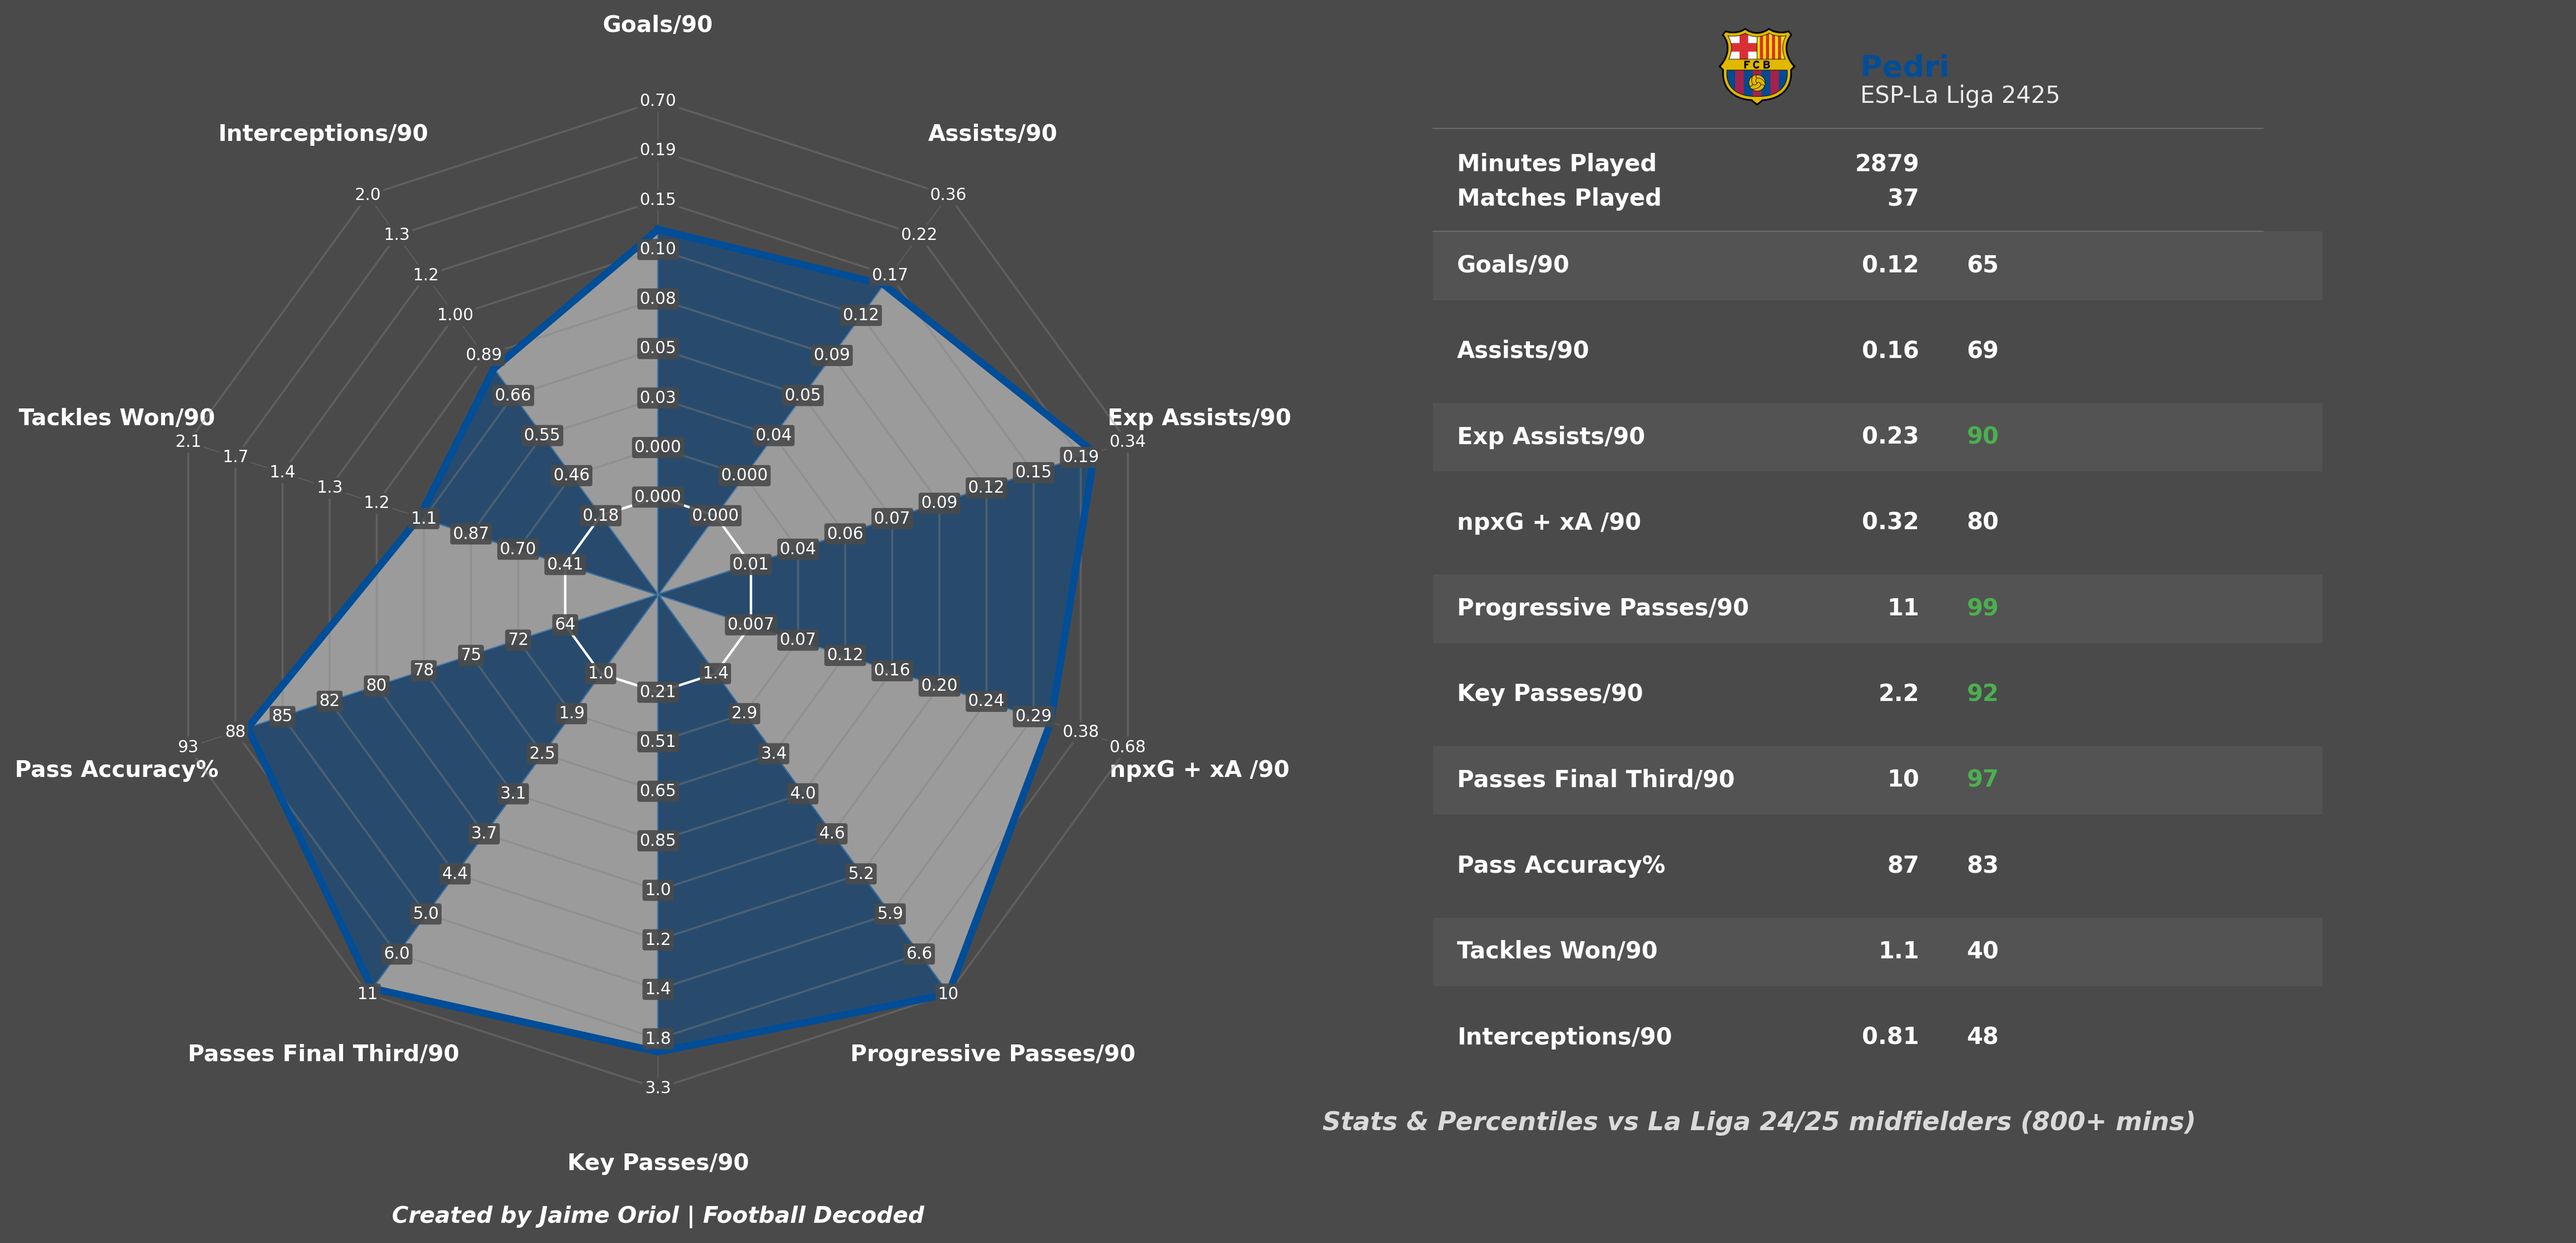
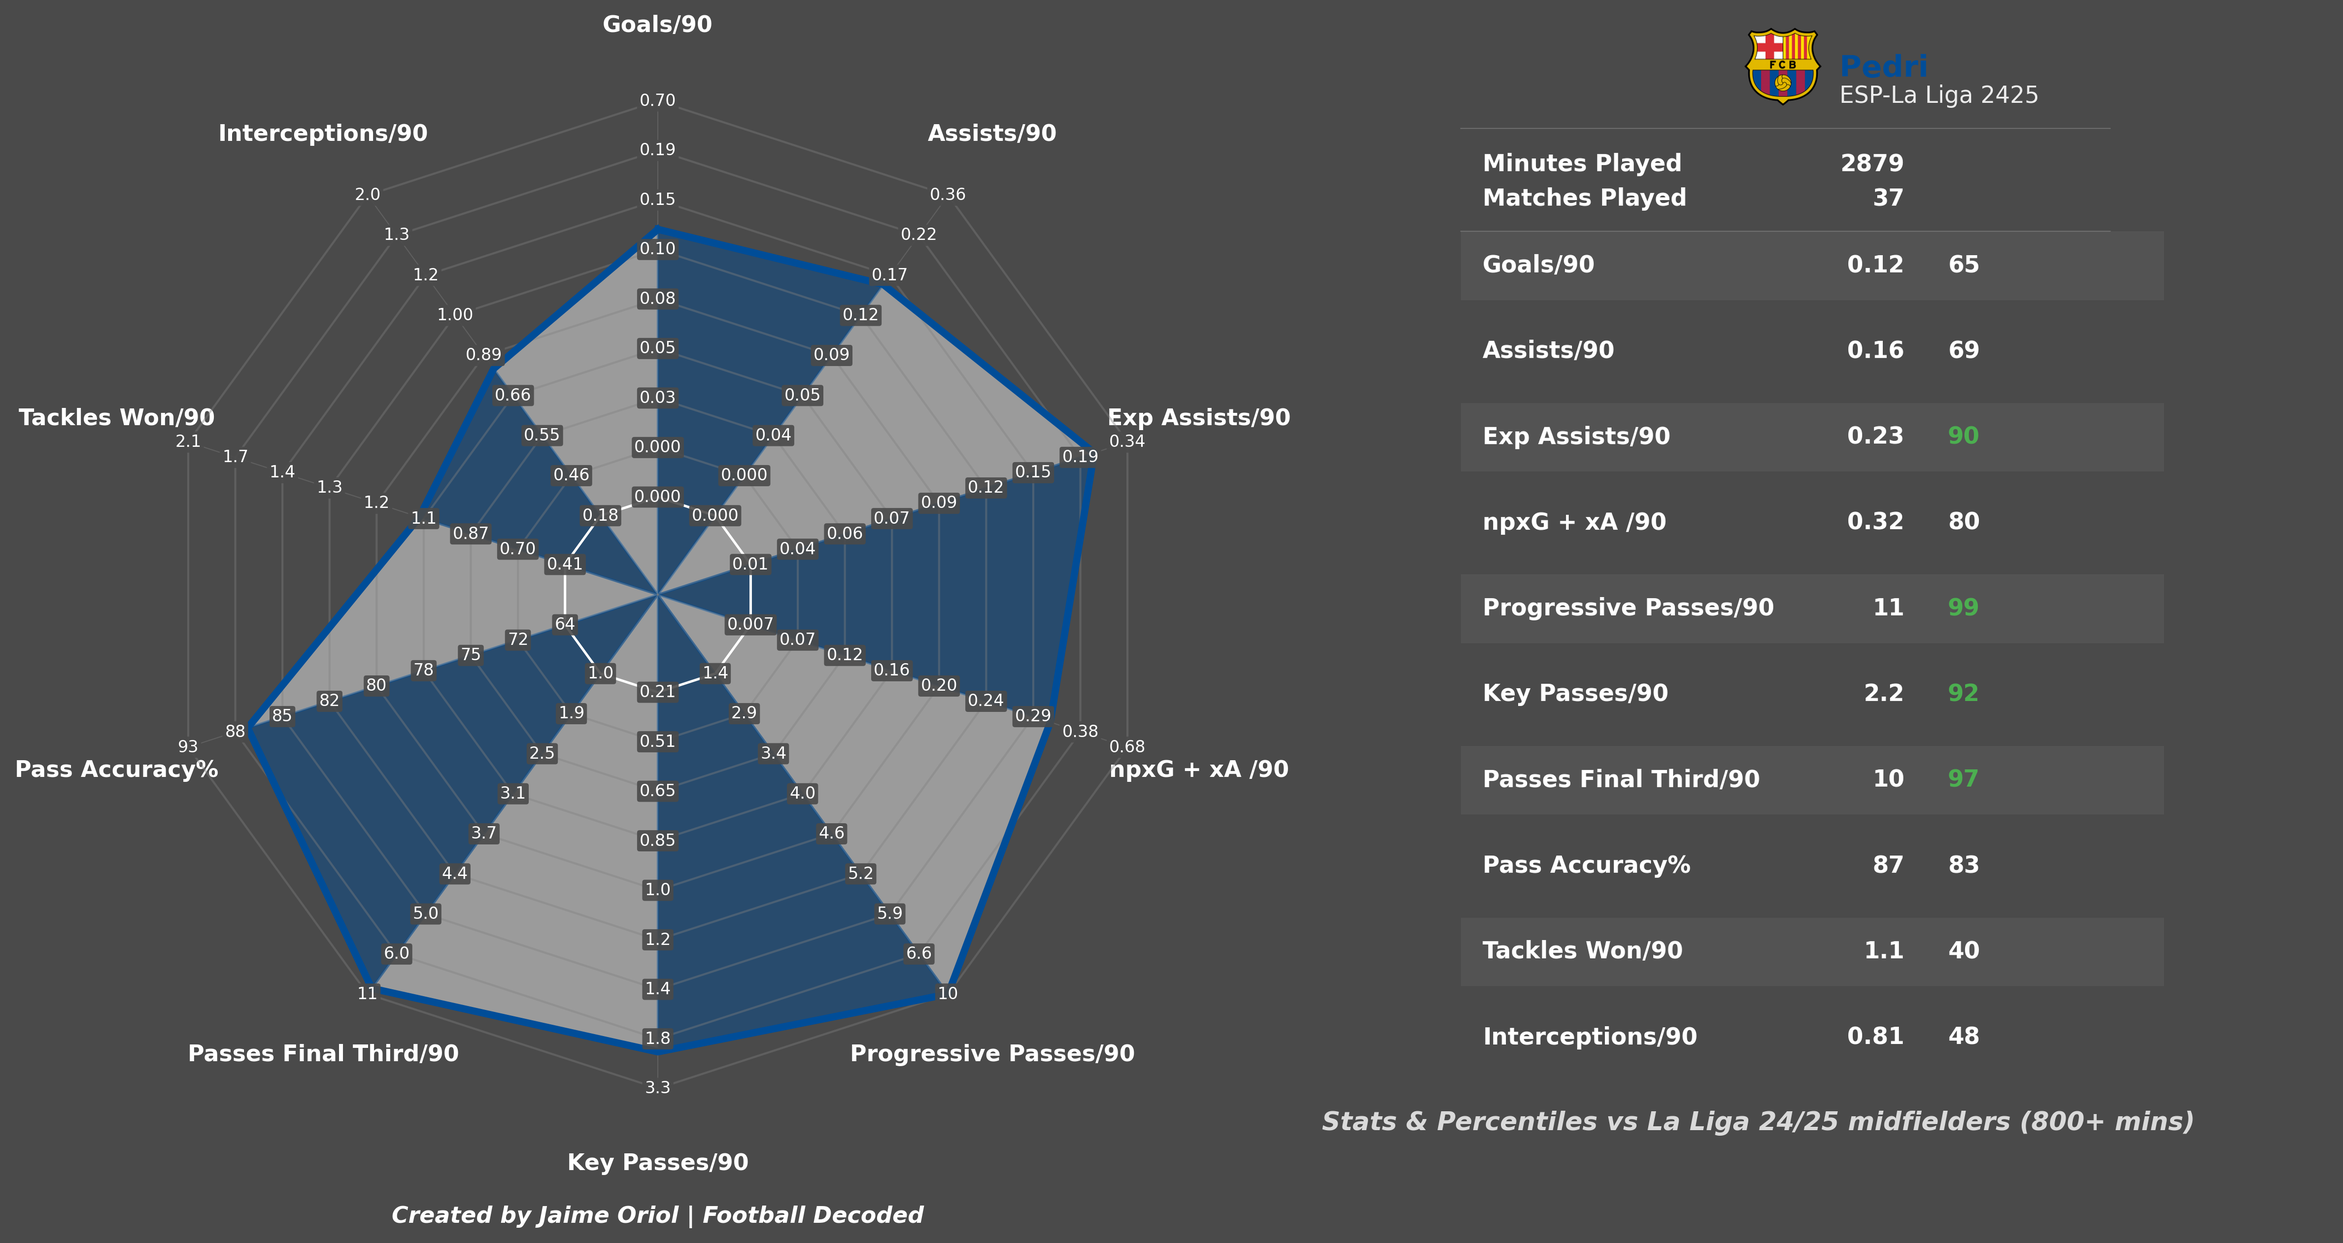
Graphs: swarm_radar + pizza radar + .ipyb template & example

diff --git a/viz/stats_table.py b/viz/stats_table.py
@@ -43,49 +43,48 @@ def create_stats_table(df_data, player_1_id, metrics, metric_titles,
     if player_2_id is not None:
         p2 = df_data[df_data['unique_player_id'] == player_2_id].iloc[0]
     
-    # Configuración de la figura - ANCHO AUMENTADO PARA MEJOR ESPACIADO
-    fig_width = 9.0 if p2 is not None else 8.0
+    # Configuración de la figura - ANCHO REDUCIDO
+    fig_width = 7.5 if p2 is not None else 6.5
     fig = plt.figure(figsize=(fig_width, 7.5), facecolor=BACKGROUND_COLOR)
     ax = fig.add_subplot(111)
     ax.set_facecolor(BACKGROUND_COLOR)
-    ax.set_xlim(0, 10)
+    ax.set_xlim(0, 8.5)  # LÍMITE REDUCIDO
     ax.set_ylim(0, 14)
     ax.axis('off')
     
-    # === SECCIÓN HEADER - MANTENER Y ORIGINAL ===
-    y_start = 13.5  # Posición Y original
+    # === SECCIÓN HEADER ===
+    y_start = 13.5
     
     # Posiciones X ajustadas para alinear con las columnas de valores
     if p2 is not None:
         # Comparación
-        logo1_x = 3.4
-        text1_x = 4.2
-        p1_value_x = 4.6
-        p1_pct_x = 5.0
-        
-        logo2_x = 5.8
-        text2_x = 6.6
-        p2_value_x = 7.0
-        p2_pct_x = 7.4
-    else:
-        # Individual - MÁS ESPACIADO
-        logo1_x = 3.4
+        logo1_x = 3.85
         text1_x = 4.1
         p1_value_x = 4.6
         p1_pct_x = 5.0
+        
+        logo2_x = 6.45
+        text2_x = 6.5
+        p2_value_x = 7.0
+        p2_pct_x = 7.4
+    else:
+        # Individual
+        logo1_x = 4.35
+        text1_x = 4.0
+        p1_value_x = 4.6
+        p1_pct_x = 5.0
     
-    # Jugador 1 - Logo en posición Y original
+    # Jugador 1 - Logo
     if team_logos and p1['team'] in team_logos:
         try:
             logo = Image.open(team_logos[p1['team']])
-            # Logo más abajo para centrarlo con el nombre
             logo_ax = fig.add_axes([logo1_x/10, (y_start-0.8)/14, 0.08, 0.08])
             logo_ax.imshow(logo)
             logo_ax.axis('off')
         except:
             pass
     
-    # Nombre y liga en posición Y original
+    # Nombre y liga
     ax.text(text1_x, y_start, p1['player_name'], 
             fontweight='bold', fontsize=13, color=team_colors[0], ha='left', va='center')
     ax.text(text1_x, y_start - 0.4, f"{p1['league']} {p1['season']}", 
@@ -110,14 +109,14 @@ def create_stats_table(df_data, player_1_id, metrics, metric_titles,
     
     # Línea separadora header
     y_line = y_start - 0.7
-    line_end = 10 if p2 is not None else 7.5
+    line_end = 8.5 if p2 is not None else 6.5  # LÍNEA MÁS CORTA
     ax.plot([0.5, line_end], [y_line, y_line], 
             color='grey', linewidth=0.5, alpha=0.6)
     
     # === SECCIÓN CONTEXTO (Minutos y Partidos) ===
     y_context = y_start - 1.2
     
-    # Minutes - ALINEADO CON LAS COLUMNAS DE VALORES
+    # Minutes
     ax.text(0.7, y_context, "Minutes Played", fontsize=10, color='white', weight='bold')
     min1 = int(p1.get('minutes_played', 0))
     ax.text(p1_value_x, y_context, f"{min1}", fontsize=10, color='white', ha='right', weight='bold')
@@ -149,7 +148,7 @@ def create_stats_table(df_data, player_1_id, metrics, metric_titles,
         
         # Fondo alternado para mejor legibilidad
         if idx % 2 == 0:
-            rect_width = 10 if p2 is not None else 7.5
+            rect_width = 8.5 if p2 is not None else 6.5  # RECTÁNGULO MÁS CORTO
             rect = Rectangle((0.5, y_pos - 0.4), 
                            rect_width, 0.8, 
                            facecolor='white', alpha=0.05)
@@ -226,19 +225,18 @@ def create_stats_table(df_data, player_1_id, metrics, metric_titles,
                     fontsize=10, color=pct_color_2, ha='left', fontweight='bold', va='center')
     
     # === FOOTER COMO ÚLTIMA FILA DE LA TABLA ===
-    # Posición del footer exactamente una fila debajo de la última métrica
     footer_y = y_metrics - (len(metrics) * row_height)
     footer_x = 3.75 if p2 is not None else 3.25
     
-    # Fondo para el footer si corresponde (como una fila más)
-    if len(metrics) % 2 == 1:  # Si el número de métricas es impar, el footer tendría fondo
-        rect_width = 10 if p2 is not None else 7.5
+    # Fondo para el footer si corresponde
+    if len(metrics) % 2 == 1:
+        rect_width = 8.5 if p2 is not None else 6.5  # RECTÁNGULO MÁS CORTO
         rect = Rectangle((0.5, footer_y - 0.4), 
                        rect_width, 0.8, 
                        facecolor='white', alpha=0.05)
         ax.add_patch(rect)
     
-    # Footer centrado en la tabla, alineado como una fila más
+    # Footer centrado en la tabla
     ax.text(footer_x, footer_y, footer_text, 
             fontsize=11, color='white', alpha=0.8, ha='center', style='italic', weight='bold', va='center')
     
